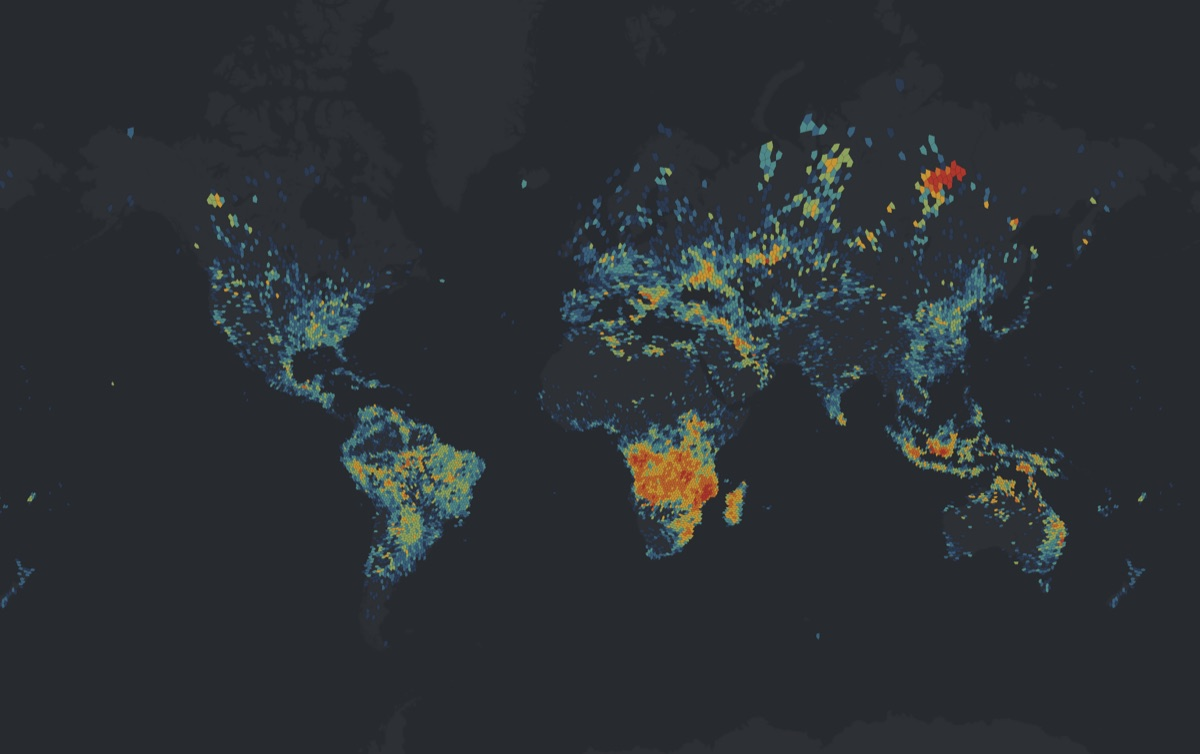
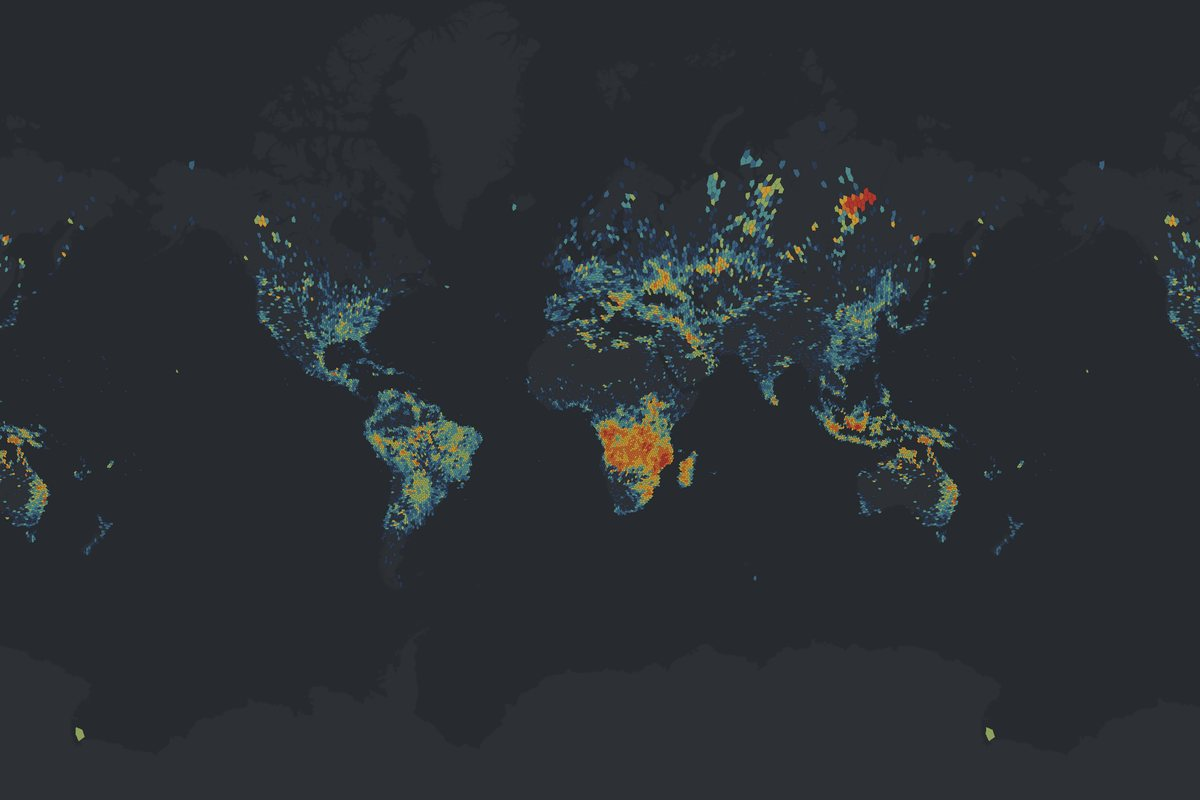
feat: publish the draft catalog and host the map app
Publish the rolling window to Source Cooperative: 1,956,503 detections, the
combined tileset, two styles and a thumbnail. The live probe reports 0 errors
and 0 warnings against the published host, so range requests and CORS both
hold there.

Host apps/firms-preview on GitHub Pages and link it from the catalog and the
collection with rel:preview. STAC uses preview for a preview of the data
itself, which is what an interactive map is; alternate is reserved for
translations by the Language extension. The app reads the published tiles by
default and takes ?tiles= to point at a local build.

Carry file:size and file:checksum on the style and thumbnail assets, which
clears the six PTL-AST-003 warnings the live probe raised.

diff --git a/apps/firms-preview/index.html b/apps/firms-preview/index.html
@@ -123,6 +123,13 @@
 <script>
 maplibregl.addProtocol("pmtiles", new pmtiles.Protocol().tile);
 
+// Where the tiles live. Defaults to the published archive so the hosted app
+// works with no configuration; ?tiles=./fire.pmtiles points it at a local
+// build for development.
+const PUBLISHED_TILES =
+  "https://data.source.coop/portolan-mirrors/firms-catalog/fire.pmtiles";
+const TILES = new URLSearchParams(location.search).get("tiles") || PUBLISHED_TILES;
+
 const AGG_LAYER="aggregate", PT_LAYER="features";
 const RAMPS={
   count:   {stops:[[1,"#2c3d5a"],[5,"#3f6d8f"],[20,"#59a1a0"],[75,"#a8c268"],[250,"#f2b134"],[1000,"#e8722c"],[4000,"#d1382a"]],unit:""},
@@ -314,8 +321,8 @@ function updateMode(){
 }
 
 map.on("load",async ()=>{
-  await loadBands("./fire.pmtiles");
-  map.addSource("fire",{type:"vector",url:"pmtiles://./fire.pmtiles"});
+  await loadBands(TILES);
+  map.addSource("fire",{type:"vector",url:"pmtiles://"+TILES});
   map.addLayer({id:AGG_LAYER,type:"fill",source:"fire","source-layer":AGG_LAYER,
     paint:{"fill-color":step("count",RAMPS.count.stops),"fill-opacity":.74,
            "fill-outline-color":"rgba(0,0,0,.22)"}});

diff --git a/tools/make_collection.py b/tools/make_collection.py
@@ -14,11 +14,14 @@ import json
 from datetime import datetime, timezone
 from pathlib import Path
 
+import hashlib
+
 import duckdb
 
 PUBLIC = "https://data.source.coop/portolan-mirrors/firms-catalog"
 S3 = "s3://portolan-mirrors/firms-catalog"
 REPO = "https://github.com/portolan-mirrors/firms-catalog"
+APP = "https://portolan-mirrors.github.io/firms-catalog/"
 
 # name -> (type, description). Descriptions are the same text AGENTS.md carries.
 COLUMNS = [
@@ -76,6 +79,17 @@ def main() -> int:
     # carrying a non-empty pmtiles:layers array (PORTO-FMT-011, PORTO-FMT-012).
     # Styles are collection-level assets with the style role, exactly one of
     # which also carries default (PORTO-CORE-069, PORTO-CORE-070).
+    def file_meta(rel: str) -> dict:
+        """file:size and file:checksum for an asset that ships in the catalog.
+
+        checksum is a multihash: '1220' (sha2-256, 32 bytes) then the digest.
+        """
+        f = Path(a.out).parent / rel
+        if not f.is_file():
+            return {}
+        h = hashlib.sha256(f.read_bytes()).hexdigest()
+        return {"file:size": f.stat().st_size, "file:checksum": "1220" + h}
+
     assets = {}
     styles = [x for x in a.styles.split(",") if x]
     for i, spec in enumerate(styles):
@@ -86,12 +100,14 @@ def main() -> int:
             "type": "application/vnd.mapbox.style+json",
             "title": title or fn,
             "roles": roles,
+            **file_meta(f"styles/{fn}"),
         }
     assets["thumbnail"] = {
         "href": f"./{a.thumbnail}",
         "type": "image/jpeg",
         "title": "Global fire detection density, rendered from the default style",
         "roles": ["thumbnail"],
+        **file_meta(a.thumbnail),
     }
 
     col = {
@@ -102,6 +118,7 @@ def main() -> int:
             "https://schemas.portolan-sdi.org/incubating/partition/v1.0.0/schema.json",
             "https://stac-extensions.github.io/table/v1.2.0/schema.json",
             "https://stac-extensions.github.io/web-map-links/v1.3.0/schema.json",
+            "https://stac-extensions.github.io/file/v2.1.0/schema.json",
         ],
         "id": "detections",
         "title": "Active Fire Detections (MODIS and VIIRS)",
@@ -157,6 +174,11 @@ def main() -> int:
              "title": "Collection README"},
             {"rel": "via", "href": "https://firms.modaps.eosdis.nasa.gov/",
              "type": "text/html", "title": "NASA FIRMS (upstream source)"},
+            # STAC uses  for a preview of the data itself, which is
+            # what an interactive map is.  is reserved for
+            # translations by the Language extension.
+            {"rel": "preview", "href": APP, "type": "text/html",
+             "title": "Interactive fire map"},
             {"rel": "pmtiles", "href": f"./{a.pmtiles}",
              "type": "application/vnd.pmtiles",
              "title": "Fire detections, aggregate bands plus raw points",
